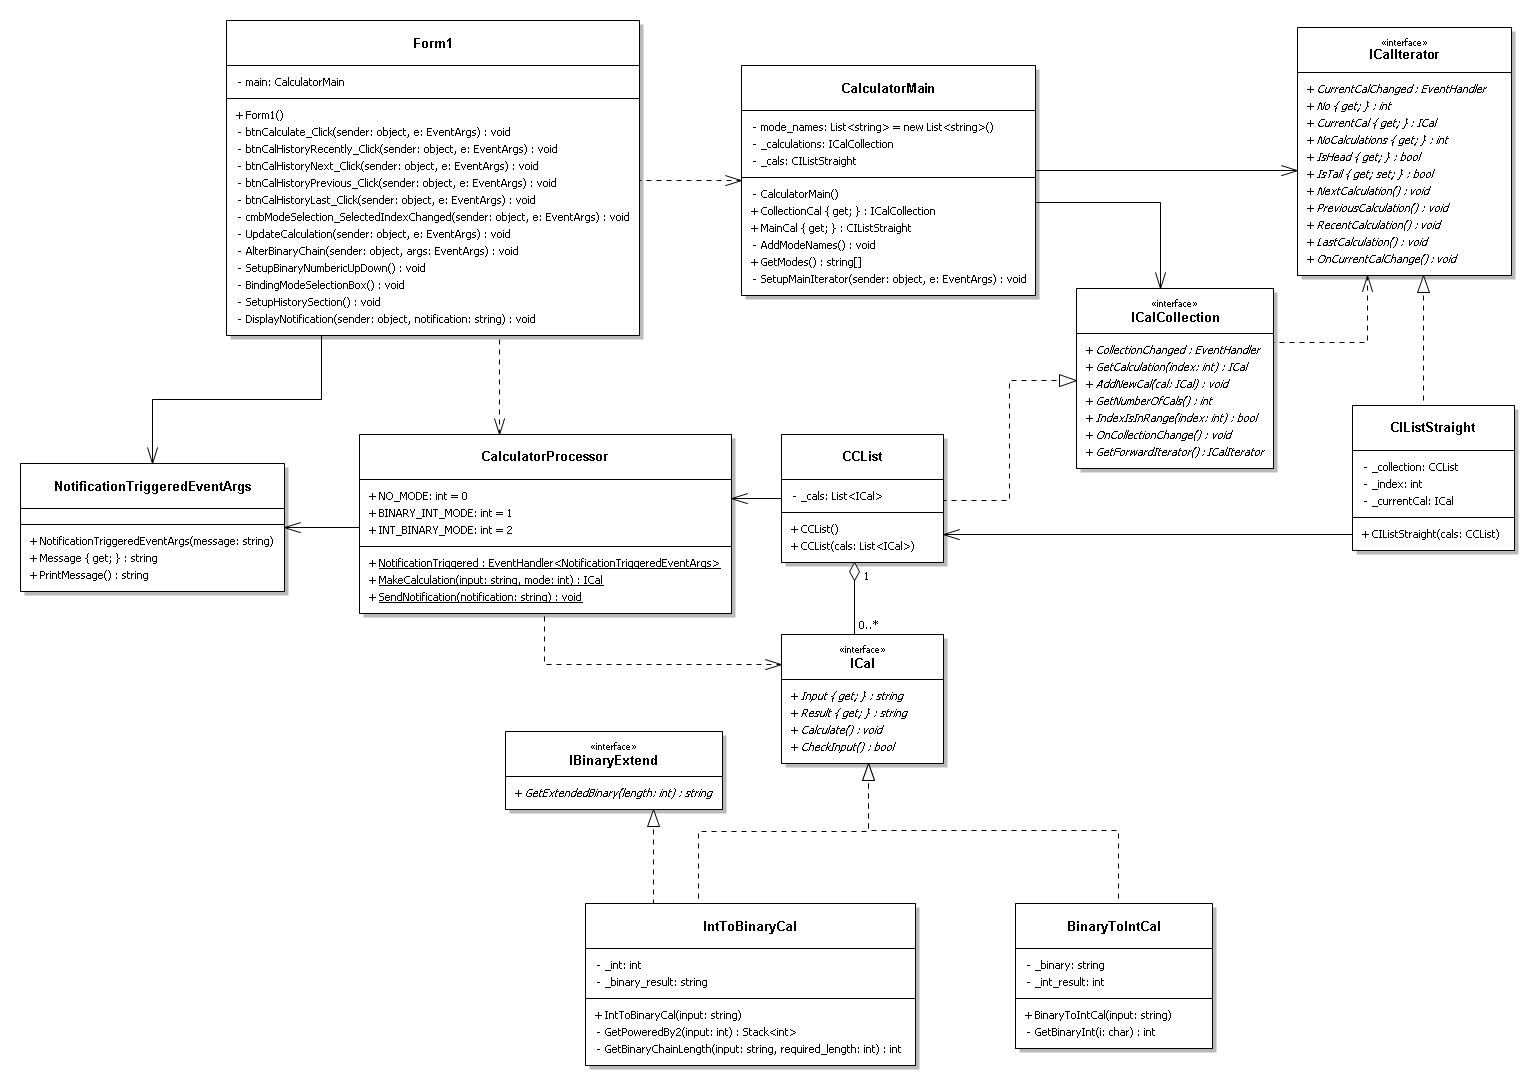
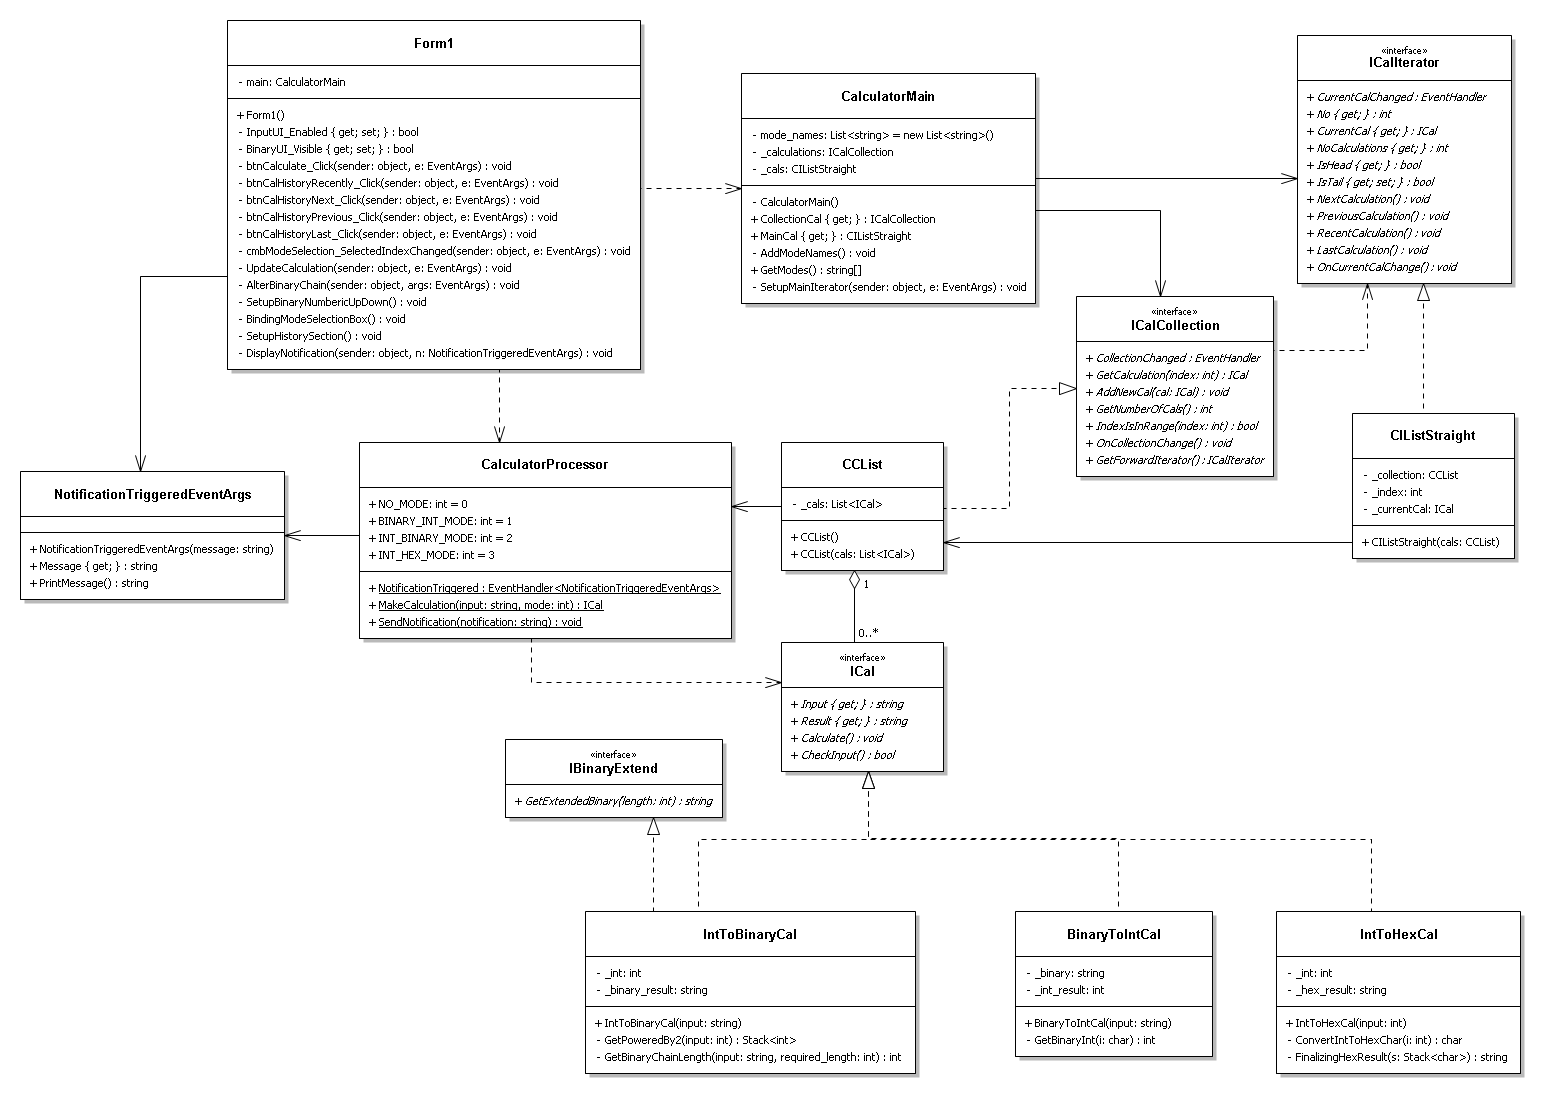
Clean up a minority of Form1.cs code

diff --git a/binaries/binaries/Form1.cs b/binaries/binaries/Form1.cs
@@ -30,6 +30,26 @@ namespace binaries
             SetupBinaryNumbericUpDown();
         }
 
+        private bool InputUI_Enabled
+        {
+            get { return btnCalculate.Enabled; }
+            set 
+            {
+                txbInput.Enabled = value;
+                btnCalculate.Enabled = value; 
+            }
+        }
+
+        private bool BinaryUI_Visible
+        {
+            get { return nudBinaryLength.Visible; }
+            set
+            {
+                nudBinaryLength.Visible = value;
+                lblBinaryLength.Visible = value;
+            }
+        }
+
         private void btnCalculate_Click(object sender, EventArgs e)
         {
             main.CollectionCal.AddNewCal(CalculatorProcessor.MakeCalculation(txbInput.Text, cmbModeSelection.SelectedIndex));
@@ -64,43 +84,34 @@ namespace binaries
             txbResult.Text = String.Empty;
 
             // Settings for each modes
-            int index = cmbModeSelection.SelectedIndex;
-            switch(index)
+            switch(cmbModeSelection.SelectedIndex)
             {
                 case CalculatorProcessor.NO_MODE:
 
                     lblInput.Text = "Please insert ________:";
-                    txbInput.Enabled = false;
-                    btnCalculate.Enabled = false;
-                    lblBinaryLength.Visible = false;
-                    nudBinaryLength.Visible = false;
+                    InputUI_Enabled = false;
+                    BinaryUI_Visible = false;
                     break;
 
                 case CalculatorProcessor.BINARY_INT_MODE:
 
                     lblInput.Text = "Please insert a binary chain:";
-                    txbInput.Enabled = true;
-                    btnCalculate.Enabled = true;
-                    lblBinaryLength.Visible = false;
-                    nudBinaryLength.Visible = false;
+                    InputUI_Enabled = true;
+                    BinaryUI_Visible = false;
                     break;
 
                 case CalculatorProcessor.INT_BINARY_MODE:
 
                     lblInput.Text = "Please insert an integer:";
-                    txbInput.Enabled = true;
-                    btnCalculate.Enabled = true;
-                    lblBinaryLength.Visible = true;
-                    nudBinaryLength.Visible = true;
+                    InputUI_Enabled = true;
+                    BinaryUI_Visible = true;
                     break;
 
                 case CalculatorProcessor.INT_HEX_MODE:
 
                     lblInput.Text = "Please insert an integer:";
-                    txbInput.Enabled = true;
-                    btnCalculate.Enabled = true;
-                    lblBinaryLength.Visible = false;
-                    nudBinaryLength.Visible = false;
+                    InputUI_Enabled = true;
+                    BinaryUI_Visible = false;
                     break;
 
                 default:
@@ -115,7 +126,6 @@ namespace binaries
             {
                 // Change calculation main section
                 // Change comboBox first because the textboxes will be resetted if SelectedIndex changes
-                cmbModeSelection.SelectedIndex = (main.MainCal.CurrentCal is IntToBinaryCal) ? CalculatorProcessor.INT_BINARY_MODE : cmbModeSelection.SelectedIndex ;
                 txbInput.Text = main.MainCal.CurrentCal.Input;
                 txbResult.Text = main.MainCal.CurrentCal.Result;
 
@@ -136,28 +146,10 @@ namespace binaries
                 txbCalHistory.Text = main.MainCal.No.ToString();
                 lblCalHistory.Text = $"out of {main.MainCal.NoCalculations}";
 
-
-                if (main.MainCal.No == 1)
-                {
-                    btnCalHistoryRecently.Visible = false;
-                    btnCalHistoryNext.Visible = false;
-                    btnCalHistoryPrevious.Visible = true;
-                    btnCalHistoryLast.Visible = true;
-                }
-                else if (main.MainCal.No == main.MainCal.NoCalculations)
-                {
-                    btnCalHistoryRecently.Visible = true;
-                    btnCalHistoryNext.Visible = true;
-                    btnCalHistoryPrevious.Visible = false;
-                    btnCalHistoryLast.Visible = false;
-                }
-                else
-                {
-                    btnCalHistoryRecently.Visible = true;
-                    btnCalHistoryNext.Visible = true;
-                    btnCalHistoryPrevious.Visible = true;
-                    btnCalHistoryLast.Visible = true;
-                }
+                btnCalHistoryRecently.Enabled   = !main.MainCal.IsHead;
+                btnCalHistoryNext.Enabled       = !main.MainCal.IsHead;
+                btnCalHistoryPrevious.Enabled   = !main.MainCal.IsTail;
+                btnCalHistoryLast.Enabled       = !main.MainCal.IsTail;
             }
         }
 
@@ -190,11 +182,10 @@ namespace binaries
             lblCalHistory.Text = $"out of ___";
             txbCalHistory.ReadOnly = true;
 
-            btnCalHistoryRecently.Visible = false;
-            btnCalHistoryNext.Visible = false;
-            btnCalHistoryPrevious.Visible = false;
-            btnCalHistoryLast.Visible = false;
-            
+            btnCalHistoryRecently.Enabled = false;
+            btnCalHistoryNext.Enabled = false;
+            btnCalHistoryPrevious.Enabled = false;
+            btnCalHistoryLast.Enabled = false;
         }
 
         private void DisplayNotification(object sender, NotificationTriggeredEventArgs n)
